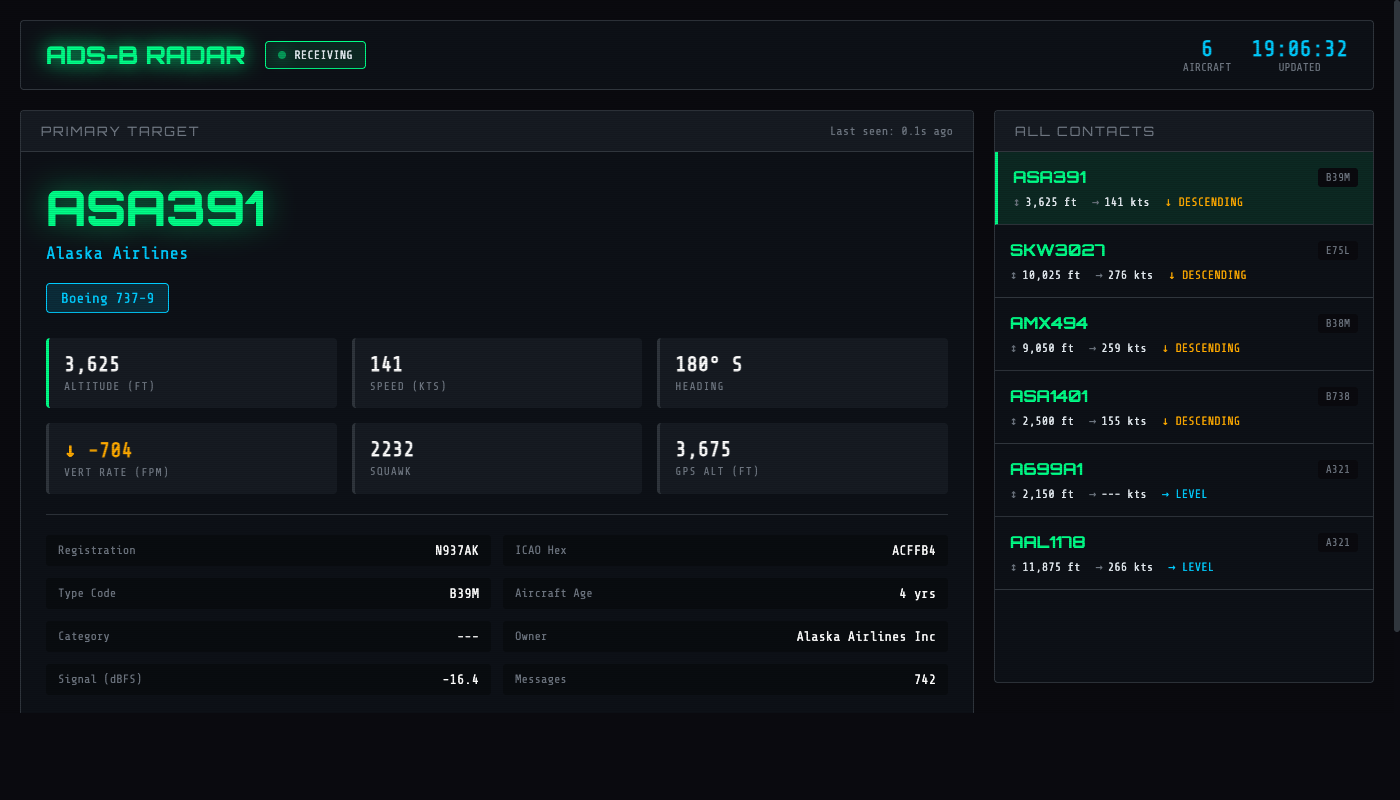
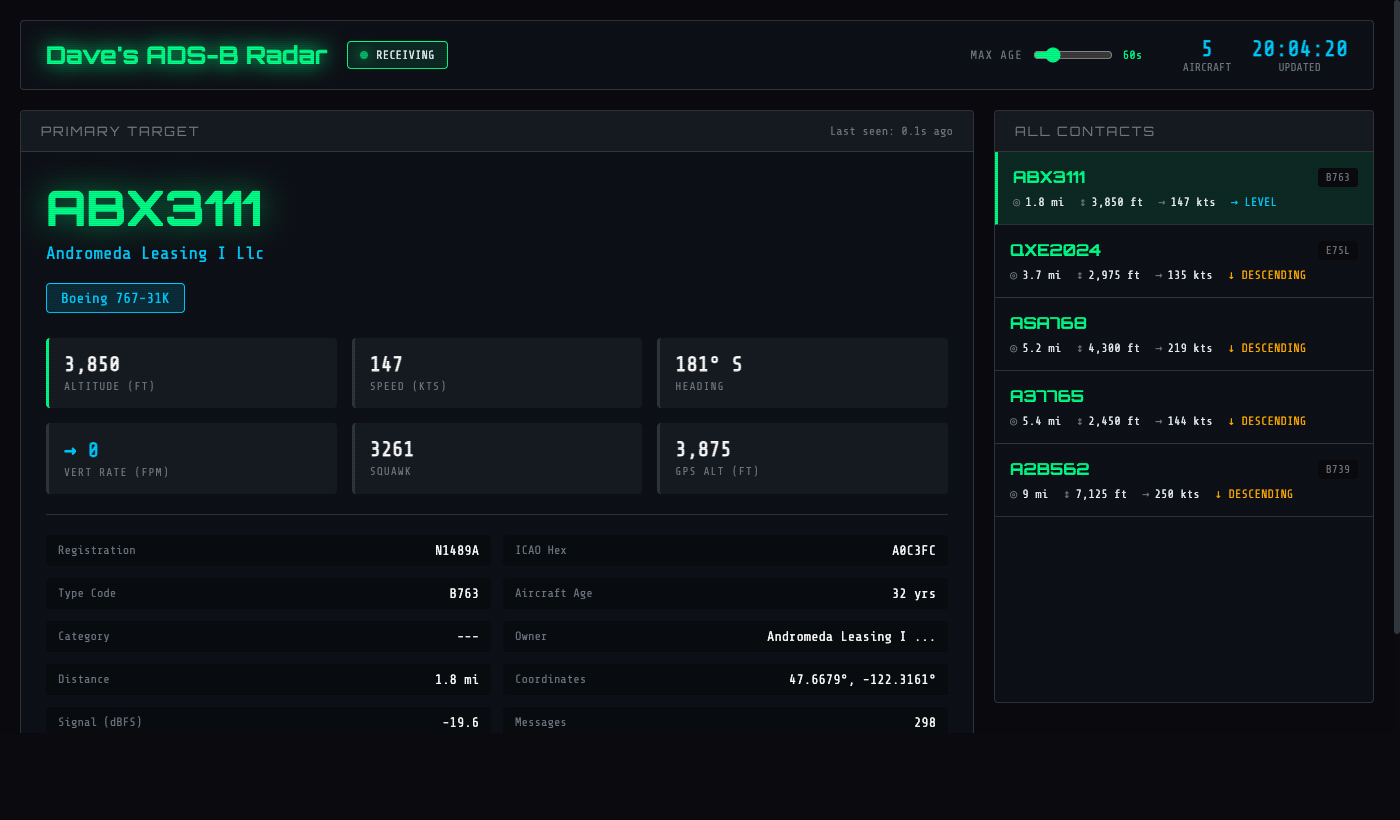
Move README to root, update screenshots, fix coordinates row

diff --git a/flight_dashboard/templates/index.html b/flight_dashboard/templates/index.html
@@ -627,12 +627,8 @@
                         <span class="value">${ac.distance_mi != null ? ac.distance_mi + ' mi' : '---'}</span>
                     </div>
                     <div class="detail-item">
-                        <span class="label">Latitude</span>
-                        <span class="value">${ac.lat != null ? ac.lat.toFixed(4) + '°' : '---'}</span>
-                    </div>
-                    <div class="detail-item">
-                        <span class="label">Longitude</span>
-                        <span class="value">${ac.lon != null ? ac.lon.toFixed(4) + '°' : '---'}</span>
+                        <span class="label">Coordinates</span>
+                        <span class="value">${ac.lat != null ? ac.lat.toFixed(4) + '°, ' + ac.lon.toFixed(4) + '°' : '---'}</span>
                     </div>
                     <div class="detail-item">
                         <span class="label">Signal (dBFS)</span>

diff --git a/README.md b/README.md
@@ -1,1 +1,158 @@
-# Custom-Flight-Radar-Dashboard
+# Dave's Custom Flight Radar Dashboard
+
+A real-time flight tracking dashboard for Raspberry Pi that displays nearby aircraft using ADS-B data from dump1090.
+
+## Screenshots
+
+![Dashboard Main View](screenshots/dashboard-main.png)
+*Live view showing primary target with full aircraft details and all contacts list*
+
+![Dashboard Detail View](screenshots/dashboard-detail.png)
+*Aircraft detail panel showing registration, owner, type code, age, and signal strength*
+
+## Features
+- Real-time aircraft tracking with automatic 2-second updates
+- Altitude, speed, heading, and vertical rate information
+- Aircraft type lookup from OpenSky Network database
+- Registration, operator, owner, and aircraft age details
+- Signal strength (RSSI) display and sorting
+- Squawk code display
+- Web-based interface accessible from any device on your network
+- Demo mode for testing without hardware
+
+## Requirements
+- Raspberry Pi with RTL-SDR dongle
+- dump1090 (via FlightRadar24 feeder)
+- Python 3.x with virtualenv
+- Flask web framework
+
+## Installation
+
+1. Create a virtualenv and install dependencies:
+   ```bash
+   python3 -m venv venv
+   venv/bin/pip install -r requirements.txt
+   ```
+
+2. Download the aircraft database:
+   ```bash
+   venv/bin/python3 download_db.py
+   ```
+
+3. Configure FR24 feeder to output JSON data:
+
+   **Option A: Via FR24 Web Interface (Recommended)**
+   - Access http://your-pi-ip:8754
+   - Go to Settings
+   - In Process arguments field, add:
+     ```
+     --write-json /run/dump1090 --write-json-every 1
+     ```
+   - Click Save and Restart
+
+   **Option B: Edit config file directly**
+   - Edit `/etc/fr24feed.ini` and ensure it has:
+     ```ini
+     receiver=dvbt
+     bs=yes
+     raw=yes
+     mlat=yes
+     procargs=--write-json /run/dump1090 --write-json-every 1
+     ```
+   - Restart fr24feed: `sudo systemctl restart fr24feed`
+
+4. Fix permissions for JSON output:
+   ```bash
+   sudo chown -R fr24:fr24 /run/dump1090/
+   ```
+
+5. Set up the systemd service:
+   ```bash
+   sudo cp flight-dashboard.service /etc/systemd/system/
+   sudo systemctl daemon-reload
+   sudo systemctl enable flight-dashboard
+   sudo systemctl start flight-dashboard
+   ```
+
+## Service File
+
+The production service file at `/etc/systemd/system/flight-dashboard.service` uses the virtualenv:
+
+```ini
+[Unit]
+Description=ADS-B Flight Dashboard
+After=network.target dump1090-fa.service
+
+[Service]
+Type=simple
+User=davepi4
+WorkingDirectory=/home/davepi4/flight_dashboard
+Environment=PORT=8080
+ExecStart=/home/davepi4/flight_dashboard/venv/bin/python3 /home/davepi4/flight_dashboard/app.py
+Restart=always
+RestartSec=5
+
+[Install]
+WantedBy=multi-user.target
+```
+
+## Usage
+
+Access the dashboard at: `http://your-pi-ip:8080`
+
+Or run manually:
+```bash
+./run.sh
+```
+
+For demo mode (no dump1090 required):
+```bash
+DEMO_MODE=true venv/bin/python3 app.py
+```
+
+## How Aircraft Are Sorted
+
+Aircraft are sorted by RSSI (signal strength in dBFS), strongest signal first. This generally correlates with closest aircraft.
+
+## Services
+
+This setup runs two services on different ports:
+- **Port 8080** - Flight Dashboard (this application)
+- **Port 8754** - FR24 Feed Status page
+
+## Aircraft JSON Path
+
+The app searches for aircraft data in this order:
+1. `/run/dump1090-fa/aircraft.json`
+2. `/run/dump1090/aircraft.json`
+3. `/var/run/dump1090-fa/aircraft.json`
+
+## Files
+- `app.py` - Main Flask application
+- `download_db.py` - OpenSky Network aircraft database downloader
+- `install.sh` - Installation script
+- `run.sh` - Quick start script
+- `requirements.txt` - Python dependencies
+- `templates/index.html` - Dashboard UI (single-page, self-contained)
+- `data/aircraft_db.json` - Aircraft database (generated by download_db.py)
+
+## Troubleshooting
+
+**If you see "aircraft.json not found":**
+1. Check dump1090 is running: `ps aux | grep dump1090`
+2. Verify JSON files exist: `ls -la /run/dump1090/`
+3. Check file is being updated: `cat /run/dump1090/aircraft.json`
+4. Check service logs: `sudo journalctl -u flight-dashboard -f`
+
+**If aircraft.json exists but is empty:**
+1. Verify dump1090 has write permissions: `sudo chown -R fr24:fr24 /run/dump1090/`
+2. Check FR24 process arguments include `--write-json /run/dump1090`
+3. Restart FR24: `sudo systemctl restart fr24feed`
+
+**If FR24 feeder won't start:**
+1. Make sure only FR24 is using the USB dongle (no other dump1090 instances)
+2. Check logs: `sudo journalctl -u fr24feed -n 50`
+3. Disable conflicting services: `sudo systemctl stop dump1090.service`
+
+## License
+Open source - modify as needed!
